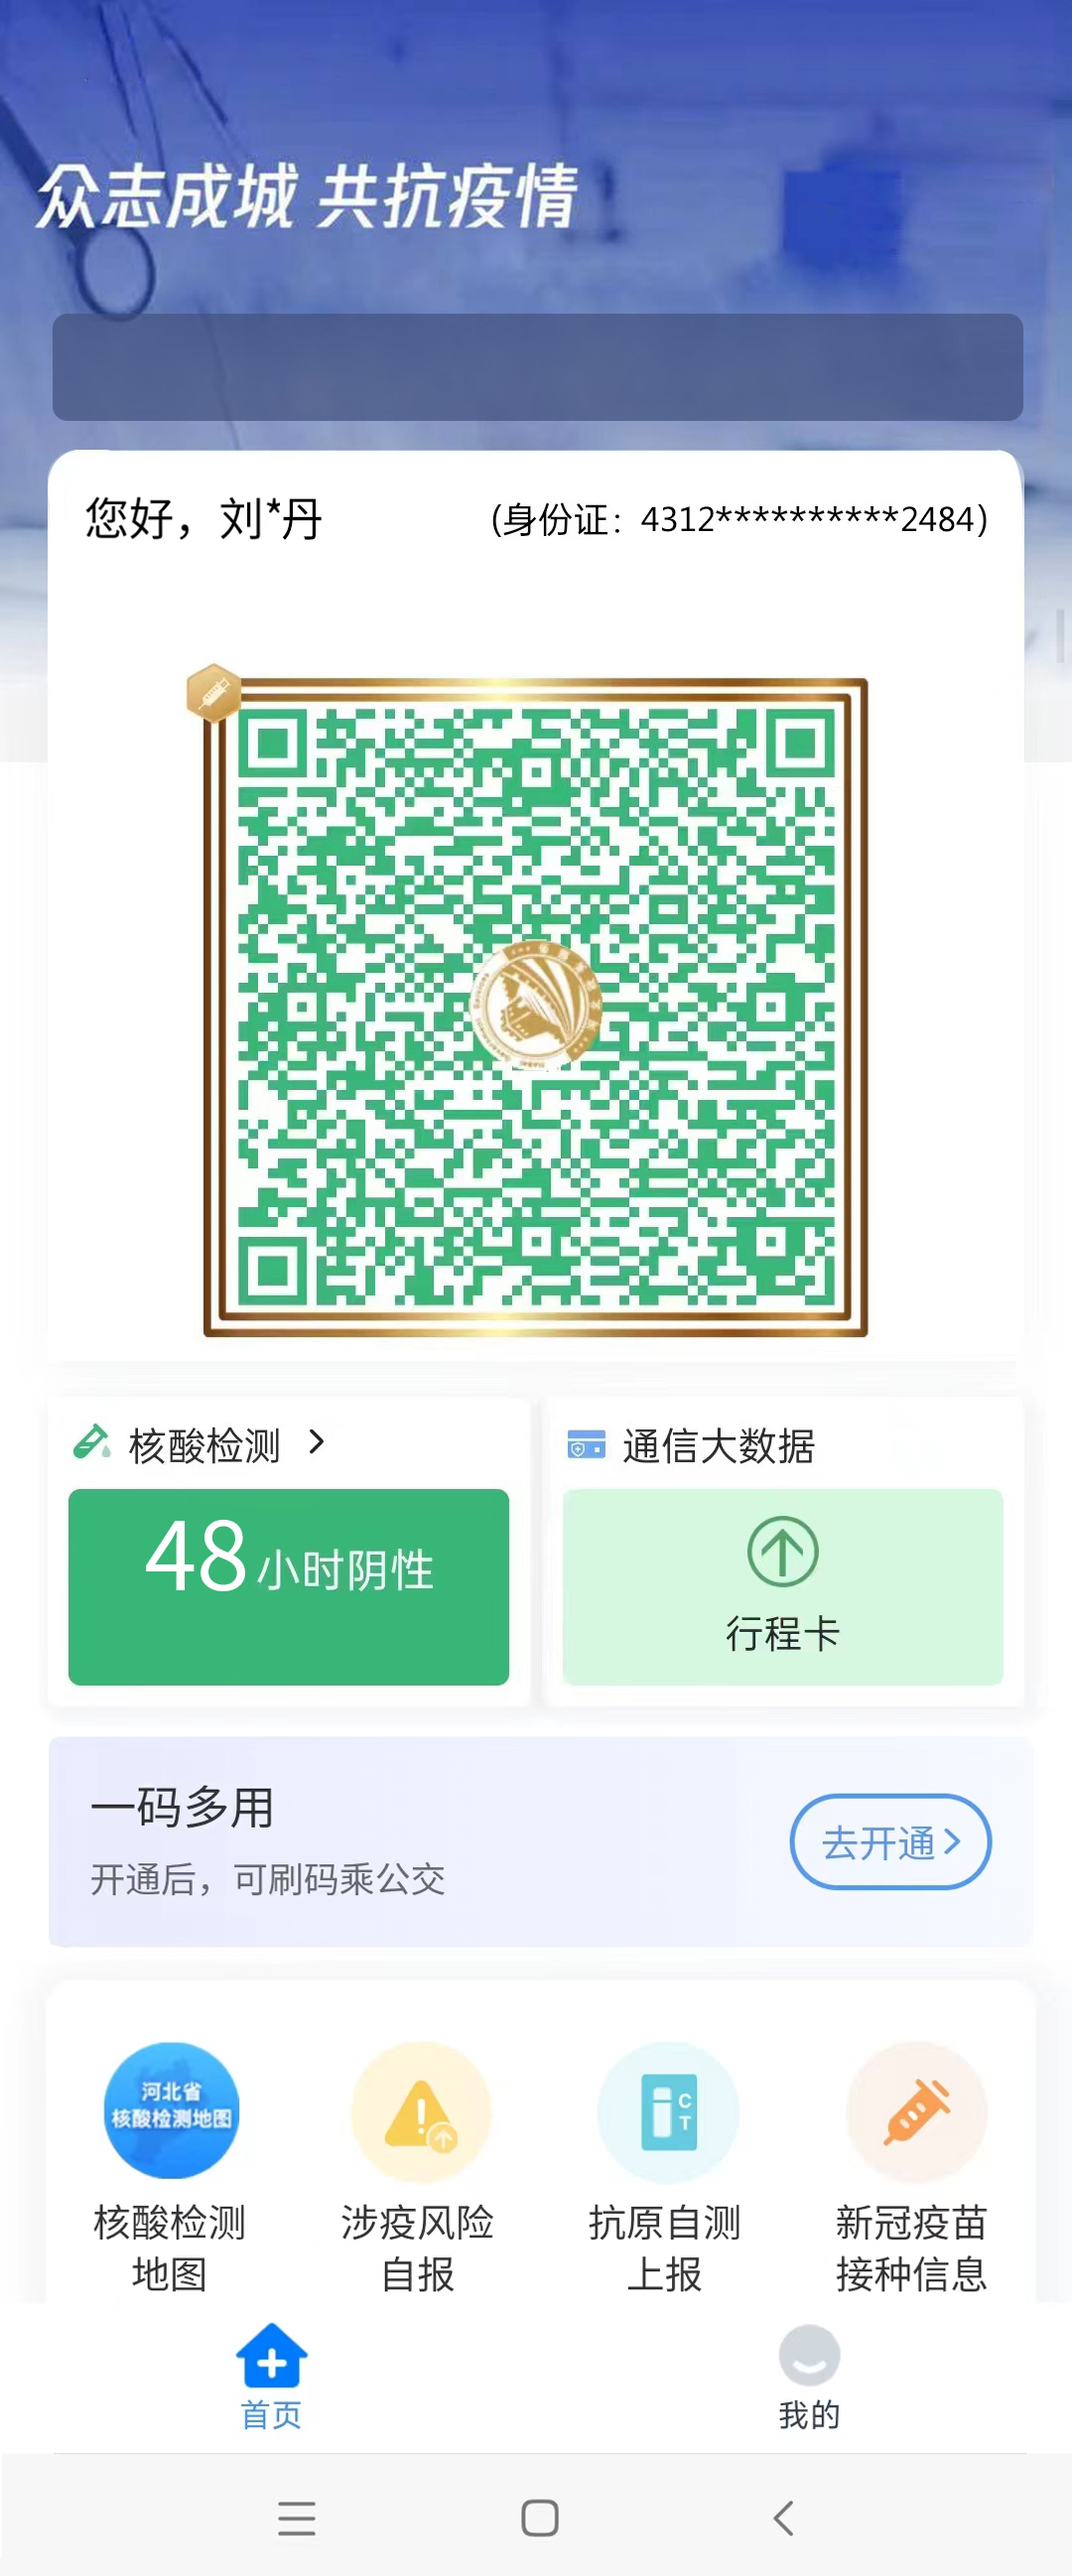
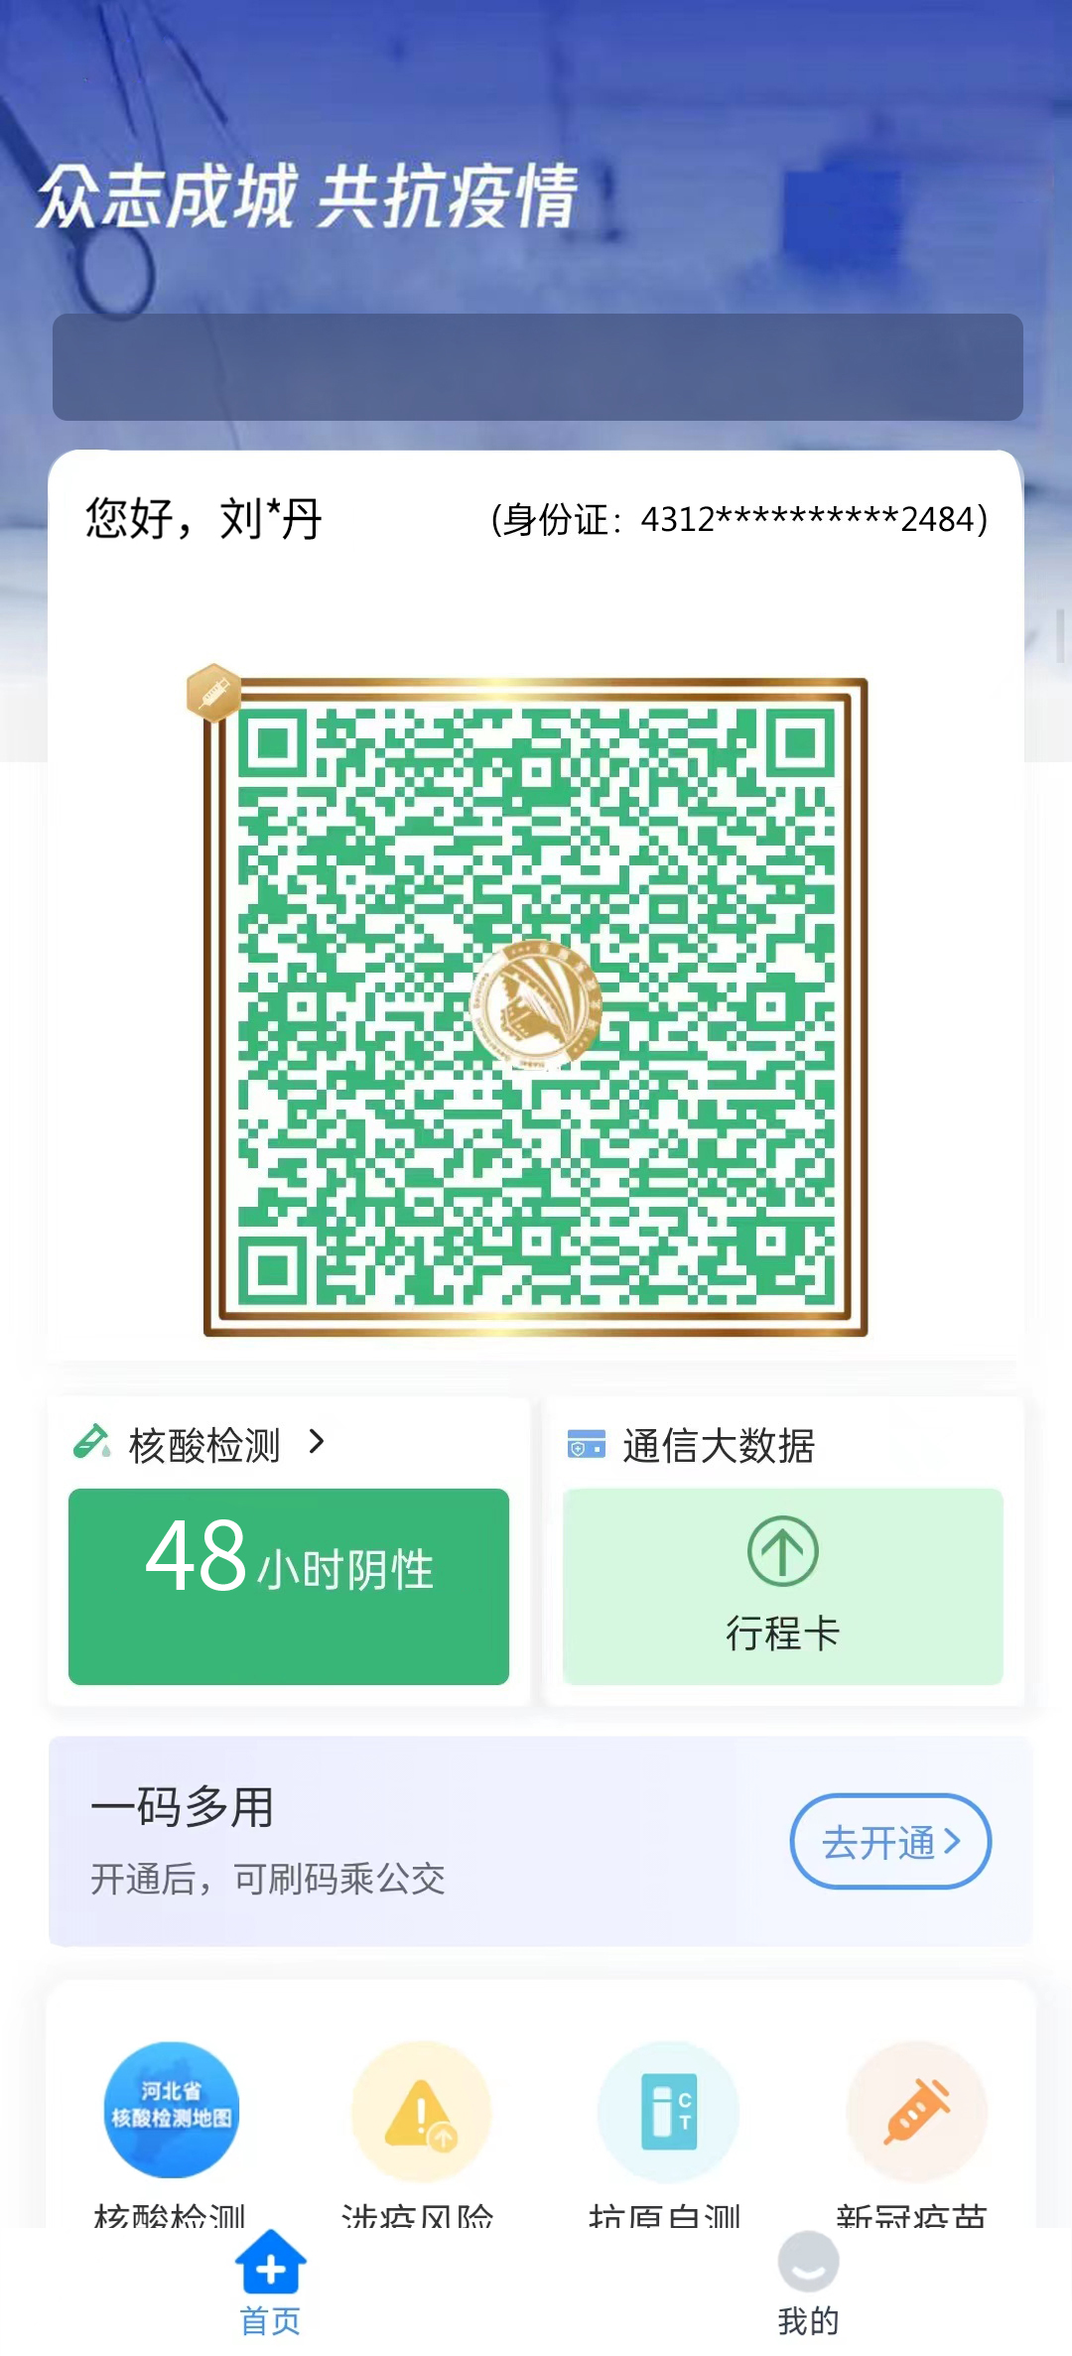
1119

diff --git a/index02.html b/index02.html
@@ -10,7 +10,7 @@
 
         div#bg { /* 背景样式 */
             width: 1080px;  /* 宽 */
-            height: 2600px; /* 高 */
+            height: 2400px; /* 高 */
             background-image: url(bg02.jpg);
         }
 
